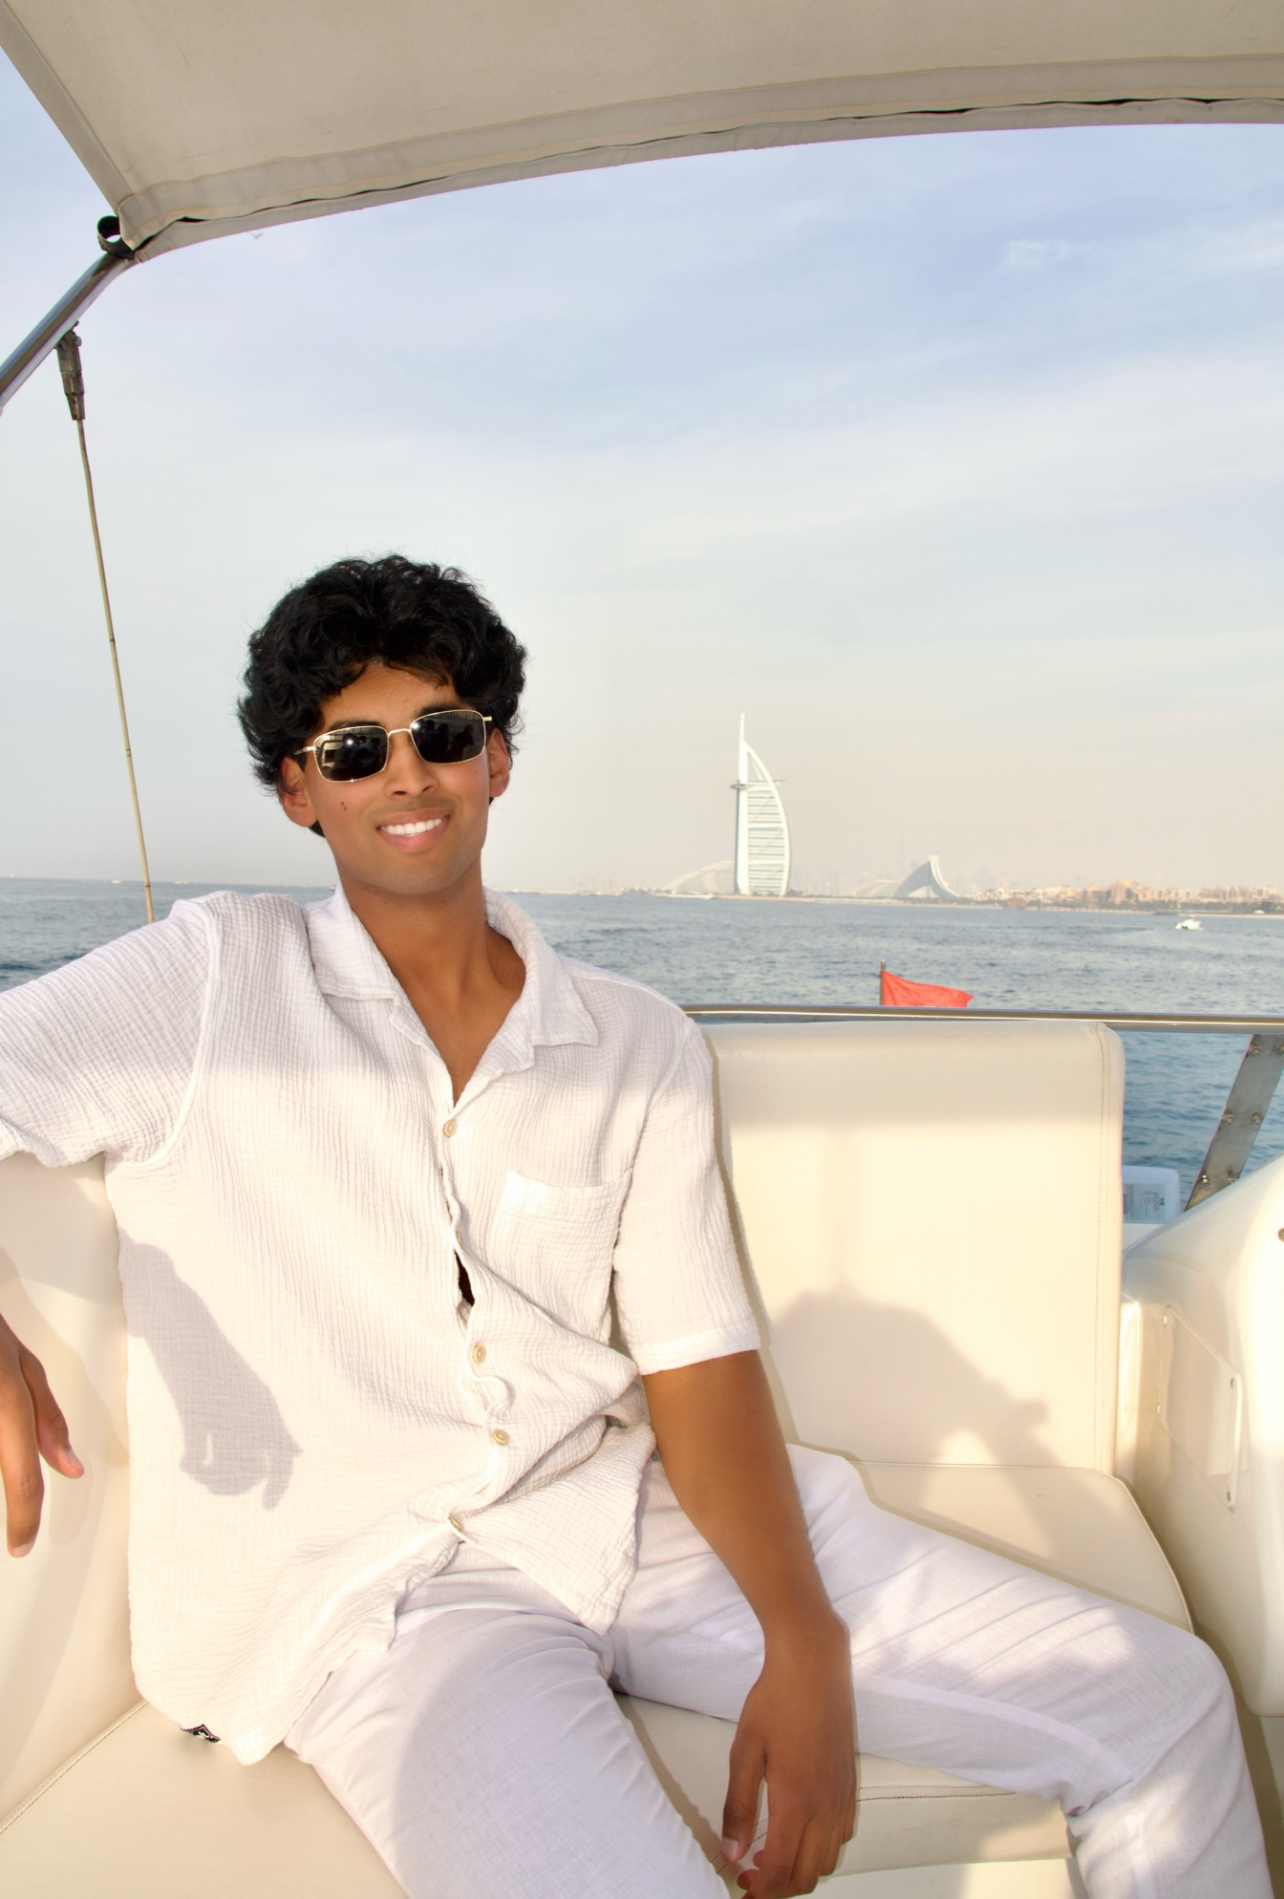
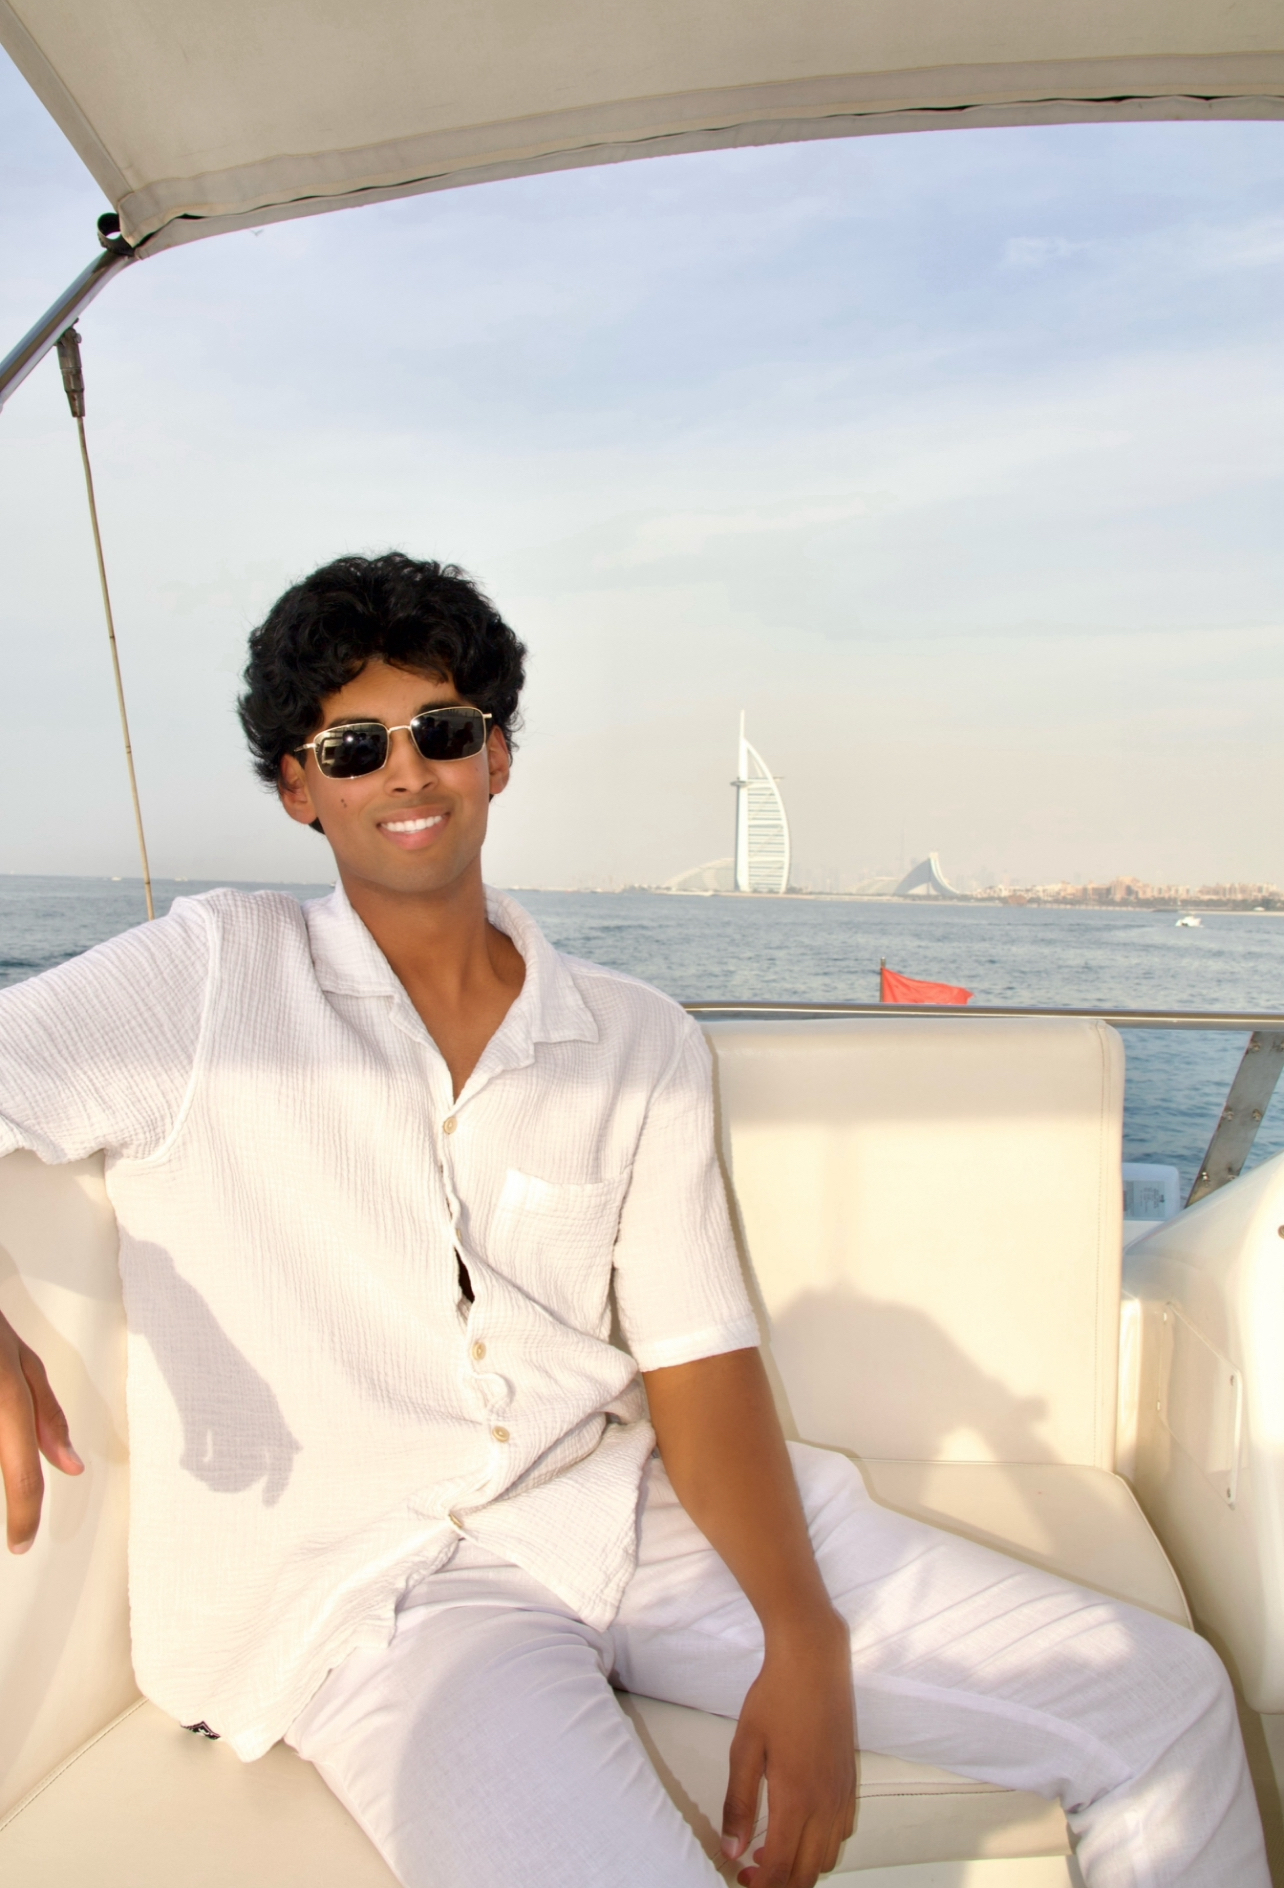
Updated all pages, changed cover images, added image carousel functionality, added source code link

diff --git a/index.html b/index.html
@@ -8,6 +8,7 @@
     <link rel="preconnect" href="https://fonts.googleapis.com">
     <link rel="preconnect" href="https://fonts.gstatic.com" crossorigin>
     <link href="https://fonts.googleapis.com/css2?family=Corinthia:wght@400;700&family=Kapakana:wght@300..400&display=swap" rel="stylesheet">
+    <link rel="icon" href="/images/favicon.png" type="image/png">
 </head>
 <body>
     <header>
@@ -26,8 +27,15 @@
     <main class="home-container">
         <div class="content-wrapper">
             <div class="image-section">
-                <div class="image-placeholder">
-                    <img src="images/CoverImages/CoverImage1.jpg" alt="Adrian Simon">
+                <div class="image-carousel">
+                    <button class="carousel-arrow carousel-arrow-left" aria-label="Previous image">‹</button>
+                    <div class="image-placeholder">
+                        <img src="images/CoverImages/CoverImage1.jpg" alt="Adrian Simon" class="carousel-image active">
+                        <img src="images/CoverImages/CoverImage2.jpg" alt="Adrian Simon" class="carousel-image">
+                        <img src="images/CoverImages/CoverImage3.jpg" alt="Adrian Simon" class="carousel-image">
+                        <img src="images/CoverImages/CoverImage4.jpg" alt="Adrian Simon" class="carousel-image">
+                    </div>
+                    <button class="carousel-arrow carousel-arrow-right" aria-label="Next image">›</button>
                 </div>
             </div>
 
@@ -49,9 +57,9 @@
                         I'm currenly a junior studying computer science with a strong passion for software development and machine learning. 
                     </p>
                     <p>
-                        I specialize in building scalable applications and developing machine learning models that can make a real impact. 
-                        Whether it's crafting clean, maintainable code or training neural networks, I approach each project with attention 
-                        to detail and a commitment to excellence.
+                        I focus on developing intelligent systems and intuitive applications that combine clean engineering with applied AI.
+                        From developing and training neural networks to designing full-stack tools,
+                        I approach each project as an opportunity to learn, expand and refine my skills, and grow.
                     </p>
                     <p>
                         I'm always eager to collaborate on exciting projects and learn from fellow engineers and researchers.
@@ -76,6 +84,7 @@
     <footer>
         <div class="footer-content">
             <p>&copy; 2025 Adrian Simon</p>
+            <p><a href="https://github.com/adriansimonn/Portfolio" target="_blank">Source Code</a></p>
             <div class="footer-social-icons">
                 <a href="https://github.com/adriansimonn" target="_blank" rel="noopener noreferrer" aria-label="GitHub">
                     <img src="images/Logos/GitHubLogo.png" alt="GitHub" class="social-icon">

diff --git a/styles.css b/styles.css
@@ -43,7 +43,7 @@ header {
 
 .logo {
     font-family: "Corinthia", cursive;
-    font-size: 24px;
+    font-size: 25px;
     font-weight: 700;
     color: var(--primary-black);
 }
@@ -97,6 +97,16 @@ header {
     background-color: var(--primary-white);
 }
 
+.image-carousel {
+    display: flex;
+    align-items: center;
+    justify-content: center;
+    gap: 15px;
+    width: 100%;
+    max-width: 600px;
+    padding-top: 20px;
+}
+
 .image-placeholder {
     width: 100%;
     max-width: 500px;
@@ -107,6 +117,7 @@ header {
     align-items: center;
     justify-content: center;
     position: relative;
+    overflow: hidden;
 }
 
 .placeholder-content {
@@ -128,6 +139,41 @@ header {
     width: 100%;
     height: 100%;
     object-fit: cover;
+    position: absolute;
+    top: 0;
+    left: 0;
+    opacity: 0;
+    transition: opacity 0.5s ease-in-out;
+}
+
+.image-placeholder img.active {
+    opacity: 1;
+}
+
+.carousel-arrow {
+    background: none;
+    border: none;
+    color: var(--primary-black);
+    font-size: 40px;
+    font-weight: 100;
+    cursor: pointer;
+    padding: 0;
+    width: 30px;
+    height: 30px;
+    display: flex;
+    align-items: center;
+    justify-content: center;
+    transition: opacity 0.3s ease;
+    line-height: 1;
+    user-select: none;
+}
+
+.carousel-arrow:hover {
+    opacity: 0.6;
+}
+
+.carousel-arrow:active {
+    opacity: 0.4;
 }
 
 /* Text Section */
@@ -257,7 +303,7 @@ footer {
     color: var(--hover-gray);
     font-weight: 300;
     letter-spacing: 0.5px;
-    margin-bottom: 15px;
+    margin-bottom: 10px;
 }
 
 .footer-social-icons {
@@ -447,6 +493,16 @@ footer {
         padding: 30px;
     }
 
+    .image-carousel {
+        gap: 10px;
+    }
+
+    .carousel-arrow {
+        font-size: 36px;
+        width: 28px;
+        height: 28px;
+    }
+
     .text-section {
         padding: 40px 50px;
     }
@@ -479,6 +535,16 @@ footer {
 
     .text-section {
         padding: 30px;
+    }
+
+    .image-carousel {
+        gap: 8px;
+    }
+
+    .carousel-arrow {
+        font-size: 32px;
+        width: 24px;
+        height: 24px;
     }
 
     .page-title {

diff --git a/script.js b/script.js
@@ -64,7 +64,43 @@ document.addEventListener('DOMContentLoaded', function() {
         item.style.transition = 'opacity 0.6s ease, transform 0.6s ease';
         observer.observe(item);
     });
+
+    // Image carousel functionality
+    const carouselImages = document.querySelectorAll('.carousel-image');
+    const prevButton = document.querySelector('.carousel-arrow-left');
+    const nextButton = document.querySelector('.carousel-arrow-right');
+    
+    if (carouselImages.length > 0 && prevButton && nextButton) {
+        let currentIndex = 0;
+        
+        function showImage(index) {
+            carouselImages.forEach((img, i) => {
+                if (i === index) {
+                    img.classList.add('active');
+                } else {
+                    img.classList.remove('active');
+                }
+            });
+        }
+        
+        function nextImage() {
+            currentIndex = (currentIndex + 1) % carouselImages.length;
+            showImage(currentIndex);
+        }
+        
+        function prevImage() {
+            currentIndex = (currentIndex - 1 + carouselImages.length) % carouselImages.length;
+            showImage(currentIndex);
+        }
+        
+        nextButton.addEventListener('click', nextImage);
+        prevButton.addEventListener('click', prevImage);
+        
+        // Initialize: show first image
+        showImage(0);
+    }
 });
+
 
 
 

diff --git a/experiences.html b/experiences.html
@@ -8,6 +8,8 @@
     <link rel="preconnect" href="https://fonts.googleapis.com">
     <link rel="preconnect" href="https://fonts.gstatic.com" crossorigin>
     <link href="https://fonts.googleapis.com/css2?family=Corinthia:wght@400;700&family=Kapakana:wght@300..400&display=swap" rel="stylesheet">
+    <link rel="icon" href="/images/favicon.png" type="image/png">
+
 </head>
 <body>
     <header>
@@ -39,7 +41,7 @@
                         <div class="item-subtitle">LinkedIn</div>
                         <div class="item-date">May 2026 - August 2026</div>
                         <div class="item-description">
-                            Incoming Summer 2026 at the Mountain View/Sunnyvale, CA headquarters.
+                            Incoming Summer 2026 intern at the Mountain View/Sunnyvale, CA headquarters.
                         </div>
                     </div>
                 </div>
@@ -152,6 +154,7 @@
     <footer>
         <div class="footer-content">
             <p>&copy; 2025 Adrian Simon</p>
+            <p><a href="https://github.com/adriansimonn/Portfolio" target="_blank">Source Code</a></p>
             <div class="footer-social-icons">
                 <a href="https://github.com/adriansimonn" target="_blank" rel="noopener noreferrer" aria-label="GitHub">
                     <img src="images/Logos/GitHubLogo.png" alt="GitHub" class="social-icon">

diff --git a/work.html b/work.html
@@ -8,6 +8,7 @@
     <link rel="preconnect" href="https://fonts.googleapis.com">
     <link rel="preconnect" href="https://fonts.gstatic.com" crossorigin>
     <link href="https://fonts.googleapis.com/css2?family=Corinthia:wght@400;700&family=Kapakana:wght@300..400&display=swap" rel="stylesheet">
+    <link rel="icon" href="/images/favicon.png" type="image/png">
 </head>
 <body>
     <header>
@@ -156,6 +157,7 @@
     <footer>
         <div class="footer-content">
             <p>&copy; 2025 Adrian Simon</p>
+            <p><a href="https://github.com/adriansimonn/Portfolio" target="_blank">Source Code</a></p>
             <div class="footer-social-icons">
                 <a href="https://github.com/adriansimonn" target="_blank" rel="noopener noreferrer" aria-label="GitHub">
                     <img src="images/Logos/GitHubLogo.png" alt="GitHub" class="social-icon">

diff --git a/blog.html b/blog.html
@@ -8,6 +8,7 @@
     <link rel="preconnect" href="https://fonts.googleapis.com">
     <link rel="preconnect" href="https://fonts.gstatic.com" crossorigin>
     <link href="https://fonts.googleapis.com/css2?family=Corinthia:wght@400;700&family=Kapakana:wght@300..400&display=swap" rel="stylesheet">
+    <link rel="icon" href="/images/favicon.png" type="image/png">
 </head>
 <body>
     <header>
@@ -51,6 +52,7 @@
     <footer>
         <div class="footer-content">
             <p>&copy; 2025 Adrian Simon</p>
+            <p><a href="https://github.com/adriansimonn/Portfolio" target="_blank">Source Code</a></p>
             <div class="footer-social-icons">
                 <a href="https://github.com/adriansimonn" target="_blank" rel="noopener noreferrer" aria-label="GitHub">
                     <img src="images/Logos/GitHubLogo.png" alt="GitHub" class="social-icon">

diff --git a/README.md b/README.md
@@ -1,6 +1,6 @@
 # Portfolio Website
 
-A modern, minimal portfolio website inspired by ZARA's clean aesthetic. Built with HTML, CSS, and JavaScript.
+A modern, minimal portfolio website built with the vanilla web stack (HTML, CSS, and JavaScript).
 
 ## Features
 
@@ -8,13 +8,12 @@ A modern, minimal portfolio website inspired by ZARA's clean aesthetic. Built wi
 - **Magazine Style**: Professional layout with ample whitespace
 - **Responsive**: Works seamlessly on desktop, tablet, and mobile devices
 - **Easy Navigation**: Simple top navigation bar with clear page structure
-- **Information-Rich Homepage**: Comprehensive about me section with professional details
 
 ## Pages
 
 - **Home** (`index.html`): About me section with split layout (image and text)
 - **Experience** (`experiences.html`): Professional experience and education
-- **Work** (`work.html`): Projects, publications, and open source contributions
+- **Work** (`work.html`): Projects, publications, and work samples
 - **Blog** (`blog.html`): Blog posts and articles
 
 ## Browser Support
